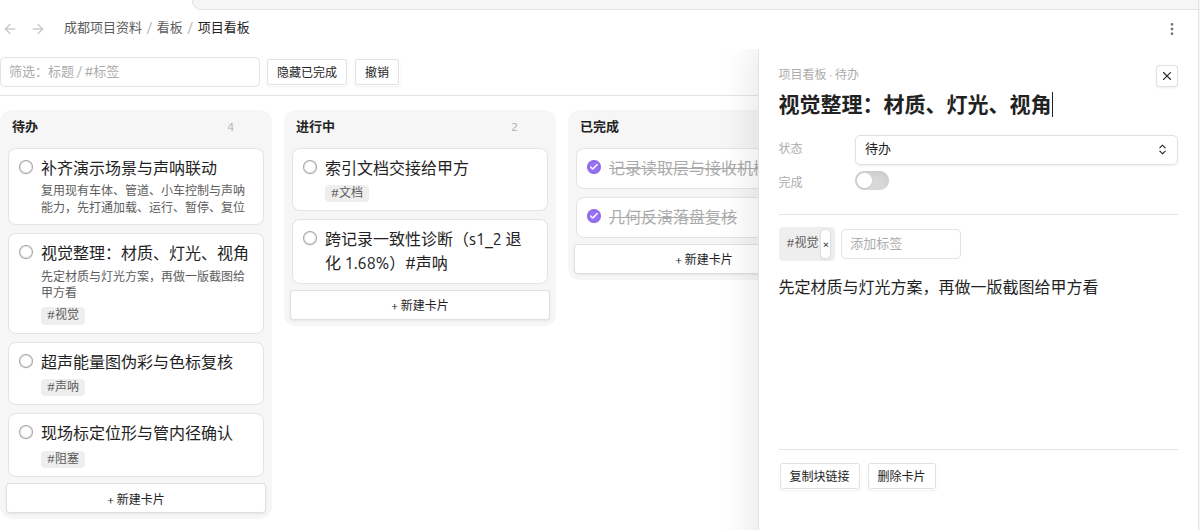
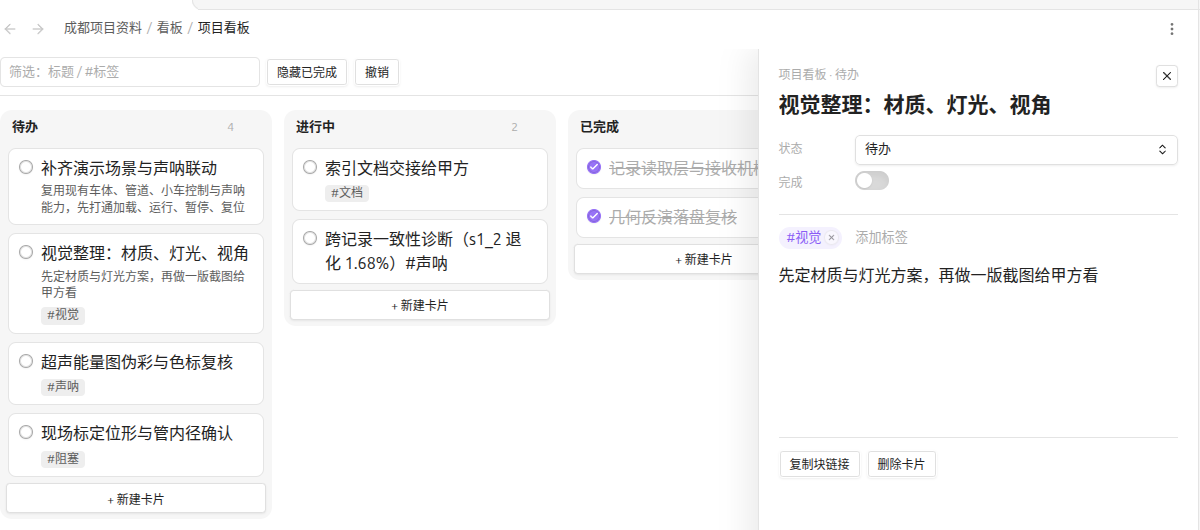
style(peek): 标签 chip 改用主题标签色，移除按钮做成小圆形图标
原来的 × 是裸字符，跟 chip 基线不对齐也不好看。现在用 setIcon 画 9px 的
叉，chip 里默认半透明、悬停变实；标签输入框去掉边框，只在聚焦时显示。

Changed region(s): [[0.6475, 0.4226, 0.925, 0.5736], [0.6475, 0.8453, 0.8017, 0.9358]]

diff --git a/styles.css b/styles.css
@@ -614,41 +614,71 @@
 .sb-tag {
   display: inline-flex;
   align-items: center;
-  gap: 2px;
-  padding: 2px 4px 2px 8px;
-  font-size: var(--font-ui-smaller);
-  color: var(--text-muted);
-  background: var(--background-modifier-hover);
-  border-radius: var(--radius-s);
+  gap: 3px;
+  height: 22px;
+  padding: 0 3px 0 8px;
+  font-size: var(--tag-size, var(--font-ui-smaller));
+  line-height: 1;
+  color: var(--tag-color, var(--text-muted));
+  background: var(--tag-background, var(--background-modifier-hover));
+  border-radius: var(--tag-radius, var(--radius-s));
 }
 
 .sb-tag-remove {
-  padding: 0 2px;
-  font-size: 12px;
-  line-height: 1;
-  color: var(--text-faint);
+  display: flex;
+  align-items: center;
+  justify-content: center;
+  width: 15px;
+  height: 15px;
+  padding: 0;
+  color: inherit;
   background: transparent;
   border: none;
+  border-radius: 50%;
   box-shadow: none;
+  opacity: 0.45;
   cursor: pointer;
+  transition: opacity 120ms ease-out, background 120ms ease-out;
+}
+
+.sb-tag:hover .sb-tag-remove,
+.sb-tag-remove:focus-visible {
+  opacity: 1;
 }
 
 .sb-tag-remove:hover {
-  color: var(--text-normal);
+  background: var(--background-modifier-border);
 }
 
-.sb-tag-input {
-  width: 120px;
-  height: 24px;
-  padding: 0 4px;
-  font-size: var(--font-ui-smaller);
+.sb-tag-remove svg {
+  width: 9px;
+  height: 9px;
+  stroke-width: 2.5;
+}
+
+input.sb-tag-input {
+  width: 96px;
+  height: 22px;
+  padding: 0 6px;
+  font-size: var(--tag-size, var(--font-ui-smaller));
   background: transparent;
-  border: none;
+  border: 1px solid transparent;
   border-radius: var(--radius-s);
   box-shadow: none;
+  transition: background 120ms ease-out, border-color 120ms ease-out;
 }
 
-.sb-tag-input:focus {
+input.sb-tag-input::placeholder {
+  color: var(--text-faint);
+}
+
+input.sb-tag-input:hover {
+  background: var(--background-modifier-hover);
+}
+
+input.sb-tag-input:focus {
+  background: var(--background-primary);
+  border-color: var(--interactive-accent);
   outline: none;
   box-shadow: none;
 }

diff --git a/src/ui/card-editor.ts b/src/ui/card-editor.ts
@@ -188,7 +188,7 @@ export class CardEditor {
         cls: "sb-tag-remove",
         attr: { "aria-label": `移除 ${tag}` },
       });
-      close.textContent = "×";
+      setIcon(close, "x");
       close.addEventListener("click", () => this.removeTag(tag));
     }
     this.tagsEl.appendChild(this.tagInputEl);
